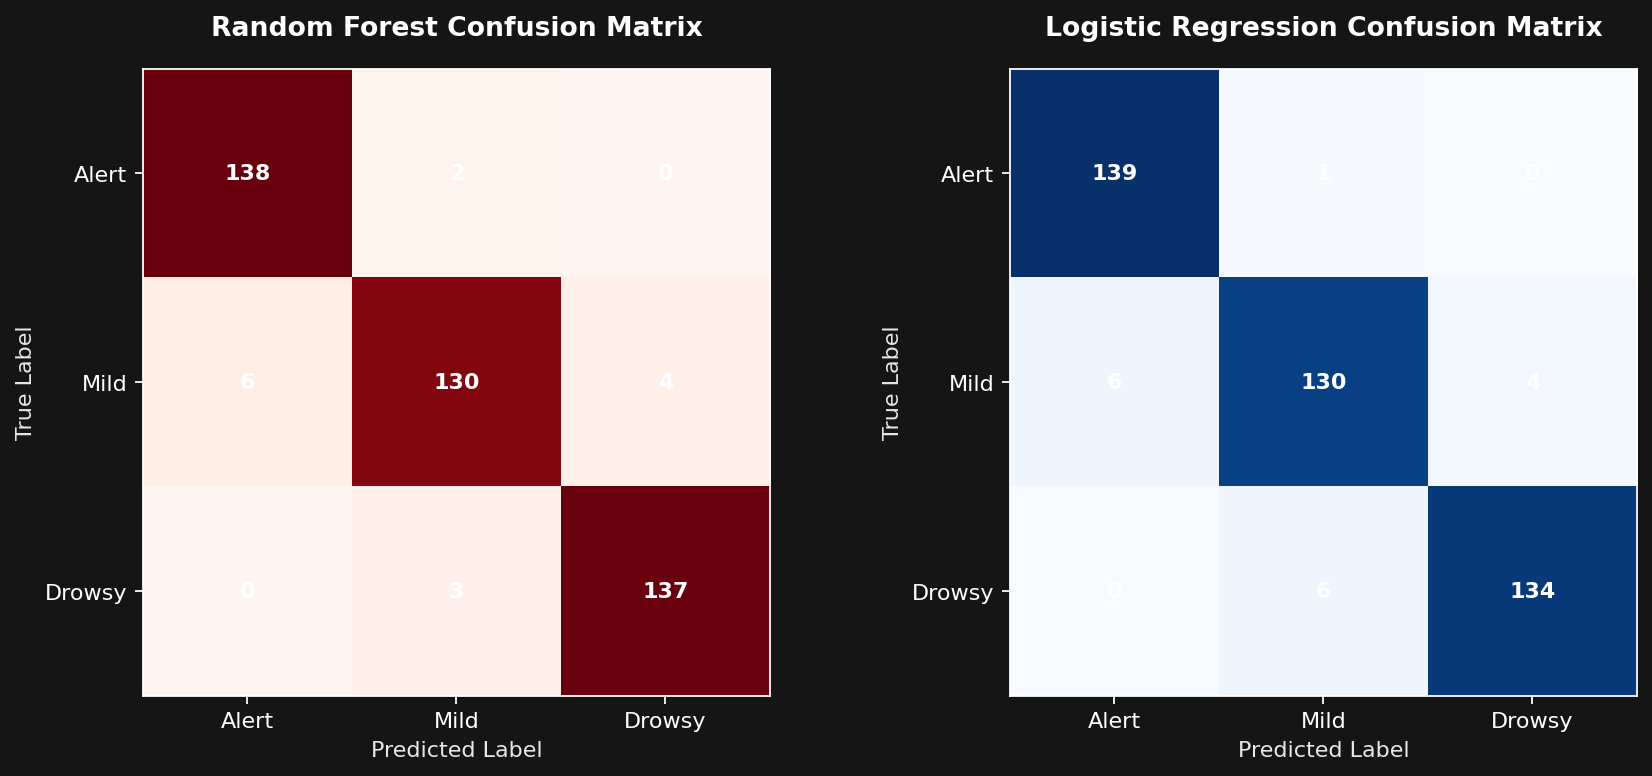
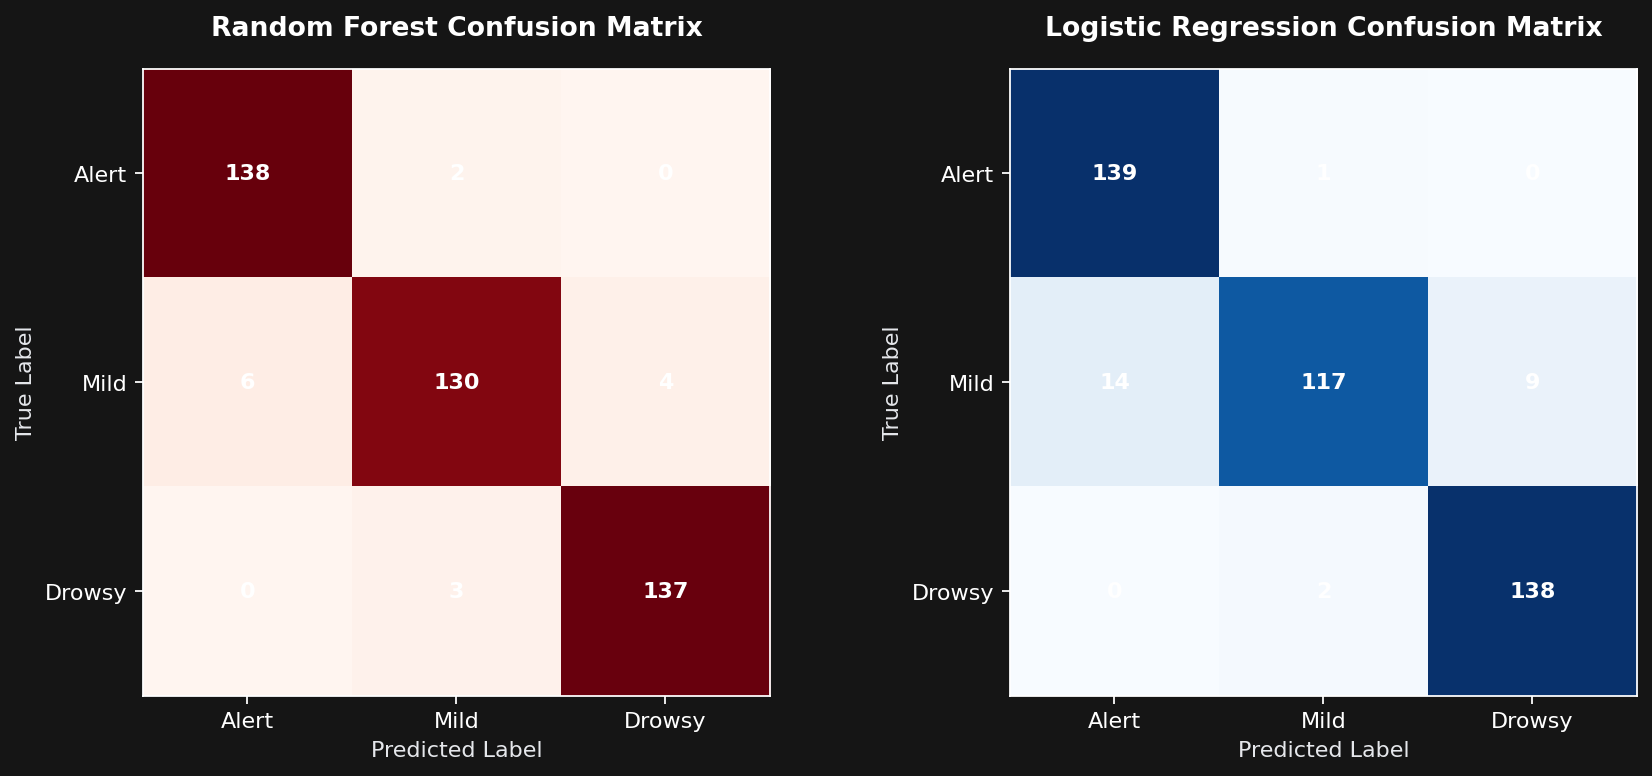
Fix Streamlit image width arguments and update model tuning

Changed region(s): [[0.7409, 0.3402, 0.8644, 0.6495], [0.9262, 0.7423, 0.957, 0.7732]]

diff --git a/app.py b/app.py
@@ -248,7 +248,8 @@ with tab_metrics:
     st.markdown("---")
     st.markdown("### Comparative Performance Charts")
     if os.path.exists("model_comparison_graphs.png"):
-        st.image("model_comparison_graphs.png", use_container_width=True)
+        
+        st.image("model_comparison_graphs.png", use_column_width=True)
     else:
         st.info("Run train_model.py to generate comparative graphs.")
 
@@ -258,7 +259,8 @@ with tab_matrix:
     st.markdown("Detailed true label vs. predicted label comparisons for multi-class fatigue detection.")
 
     if os.path.exists("confusion_matrices_comparison.png"):
-        st.image("confusion_matrices_comparison.png", use_container_width=True)
+        
+        st.image("confusion_matrices_comparison.png", use_column_width=True)
     else:
         st.info("Run train_model.py to generate confusion matrices.")
 
@@ -381,7 +383,8 @@ if run_app:
                     mar_bar.empty()
 
                 frame_rgb = cv2.cvtColor(frame, cv2.COLOR_BGR2RGB)
-                video_placeholder.image(frame_rgb, channels="RGB", use_container_width=True)
+                
+                video_placeholder.image(frame_rgb, channels="RGB", use_column_width=True)
 
         finally:
             cap.release()

diff --git a/train_model.py b/train_model.py
@@ -83,7 +83,8 @@ def train_and_save_model():
     rf_proba = rf_model.predict_proba(X_test_scaled)
 
     # --- Train Logistic Regression ---
-    lr_model = LogisticRegression(random_state=42, max_iter=1000)
+    
+    lr_model = LogisticRegression(C=0.005, random_state=42)
     lr_model.fit(X_train_scaled, y_train)
     lr_pred = lr_model.predict(X_test_scaled)
     lr_proba = lr_model.predict_proba(X_test_scaled)
